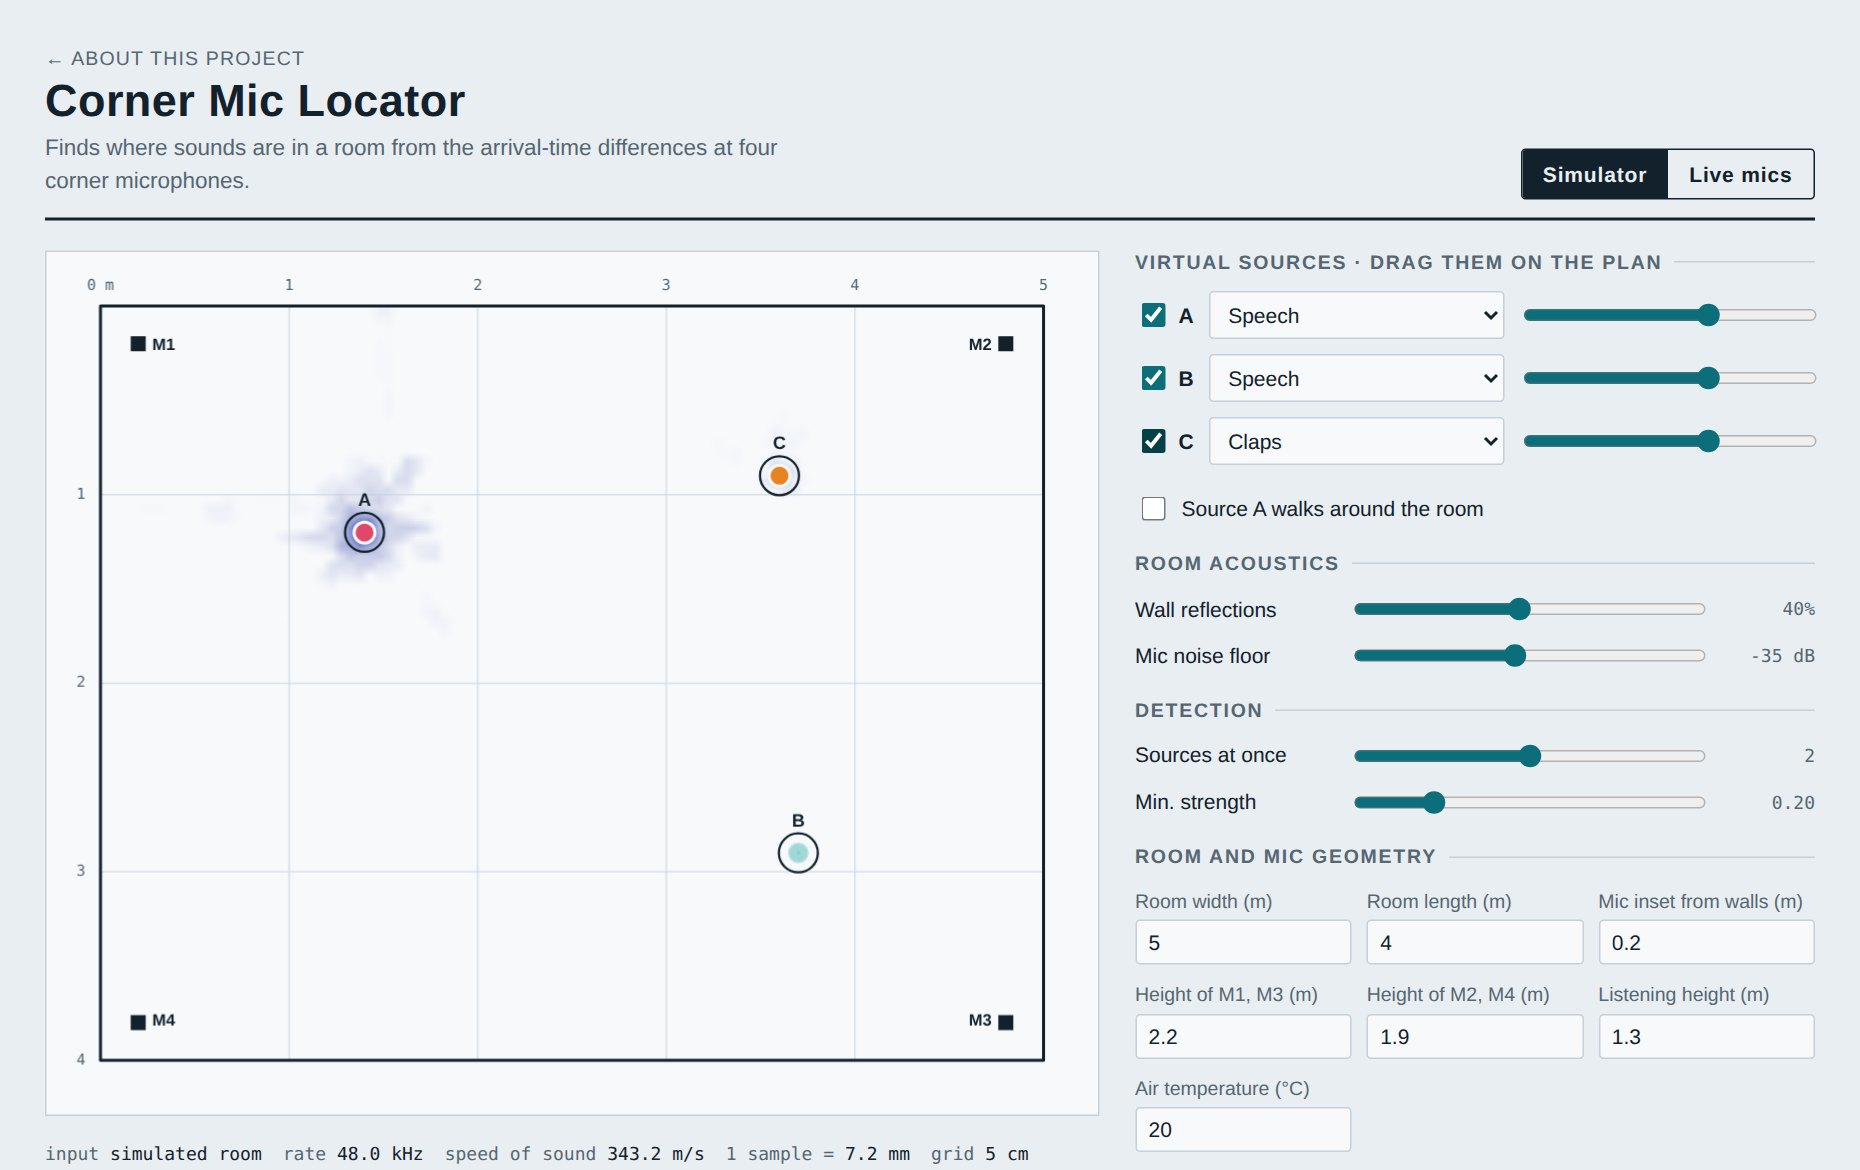
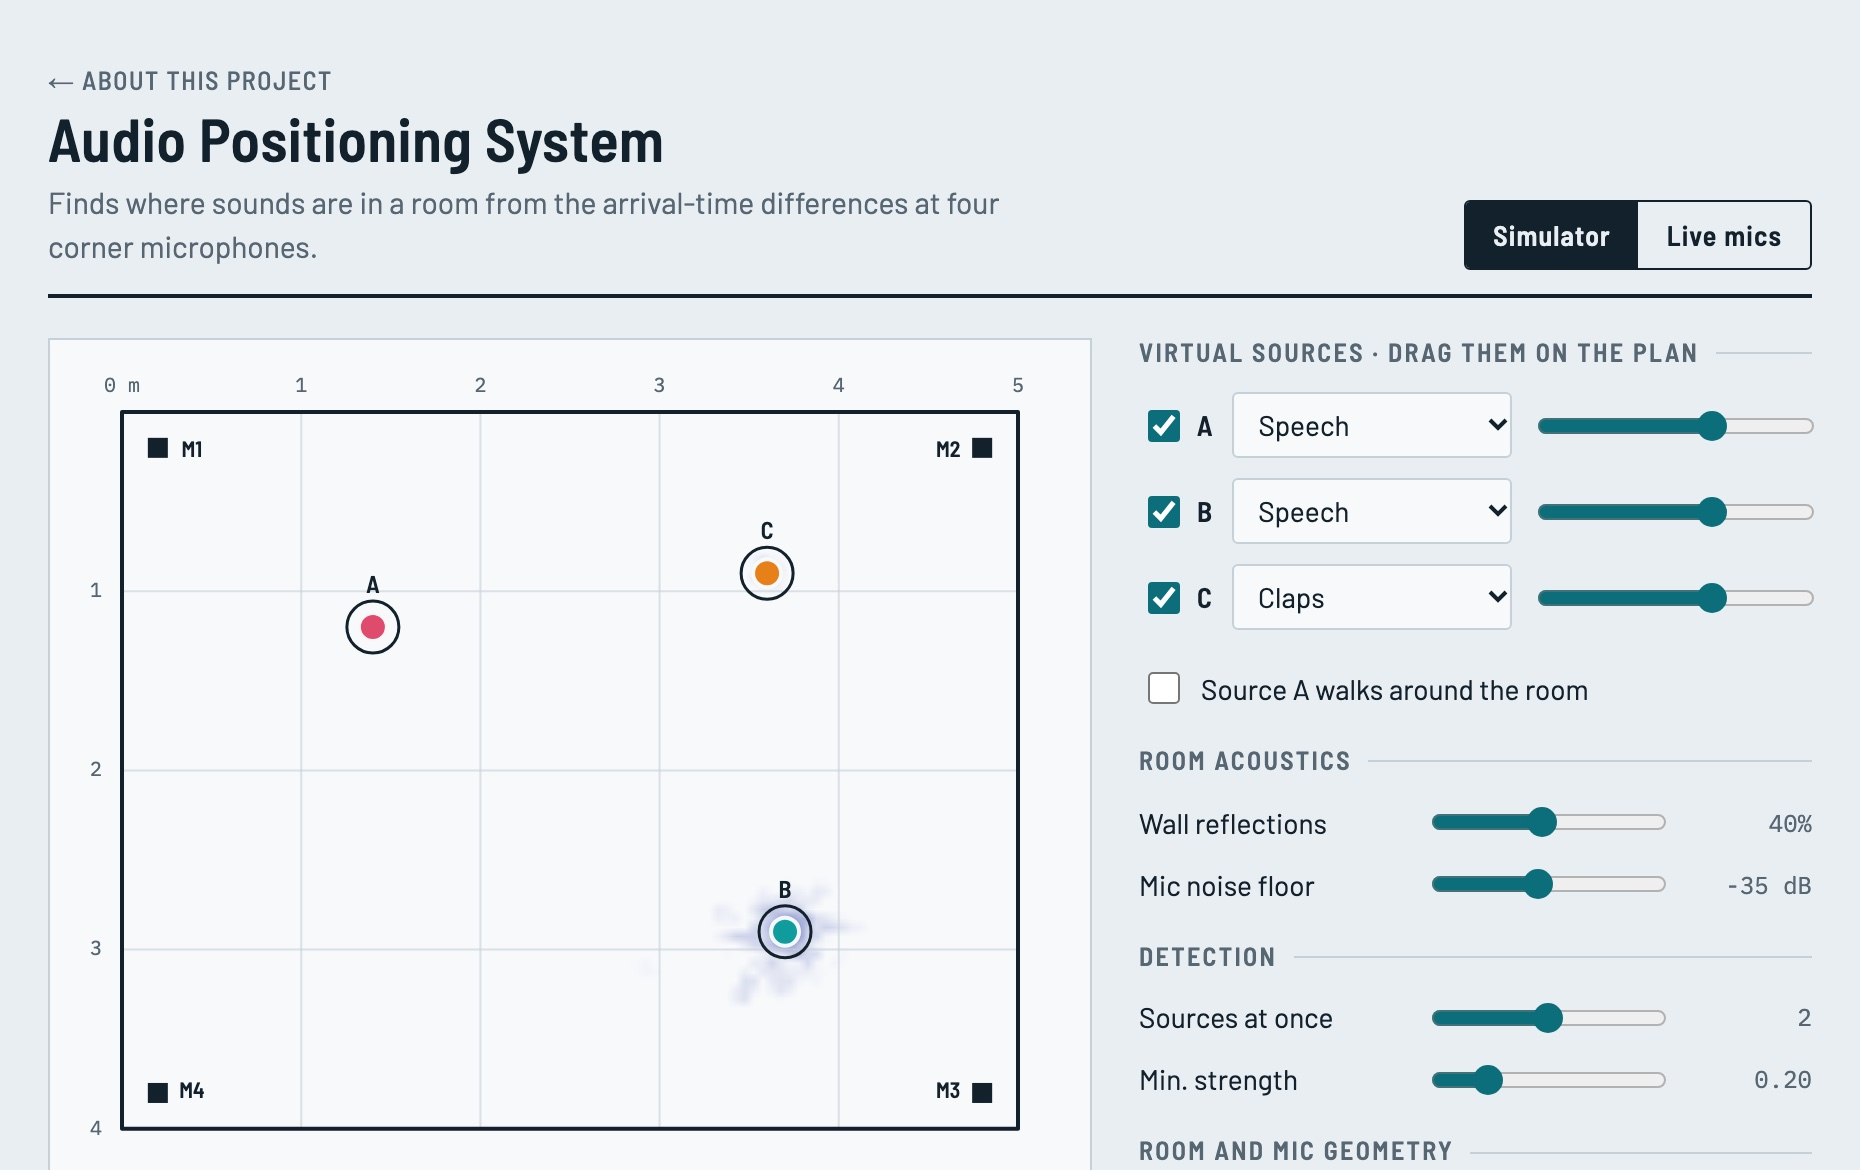
Link CV projects, add live apps, rename the locator to Audio Positioning System

diff --git a/static/projects/locator/index.html b/static/projects/locator/index.html
@@ -3,7 +3,7 @@
 <head>
 <meta charset="utf-8">
 <meta name="viewport" content="width=device-width,initial-scale=1">
-<title>Corner Mic Locator · bristoljon.uk</title>
+<title>Audio Positioning System · bristoljon.uk</title>
 <meta name="description" content="Locates sounds in a room from the arrival-time differences at four corner microphones. Runs a simulated room, or live from a multichannel audio interface.">
 <link rel="icon" href="/favicon.svg" type="image/svg+xml">
 <link rel="stylesheet" href="https://fonts.googleapis.com/css2?family=Barlow:wght@400;500;600&family=Barlow+Semi+Condensed:wght@500;600&family=IBM+Plex+Mono:wght@400;500&display=swap">
@@ -81,7 +81,7 @@ details ul{padding-left:1.1em;margin:8px 0;display:flex;flex-direction:column;ga
   <header>
     <div>
       <a class="back" href="/project/locator/">← About this project</a>
-      <h1>Corner Mic Locator</h1>
+      <h1>Audio Positioning System</h1>
       <p>Finds where sounds are in a room from the arrival-time differences at four corner microphones.</p>
     </div>
     <div class="seg" role="group" aria-label="Input">

diff --git a/src/pages/cv.js b/src/pages/cv.js
@@ -157,7 +157,7 @@ const CvPage = ({ data }) => {
                   {fm.sideProjects.map(p => (
                     <li key={p.name}>
                       <h3>
-                        {p.name}
+                        {p.url ? <a href={p.url}>{p.name}</a> : p.name}
                         {p.status && <span className="cv-status">{p.status}</span>}
                       </h3>
                       <p>{p.description}</p>
@@ -219,6 +219,7 @@ export const query = graphql`
         sideProjects {
           name
           status
+          url
           description
         }
         sideProjectsNote

diff --git a/src/styles/global.css b/src/styles/global.css
@@ -2447,7 +2447,8 @@ a.tag:hover {
   line-height: 1.3;
 }
 
-.cv-job h3 a {
+.cv-job h3 a,
+.cv-projects h3 a {
   text-decoration-color: var(--accent);
   text-decoration-thickness: 2px;
 }
@@ -2757,7 +2758,8 @@ a.tag:hover {
     font-size: 11.5pt;
   }
 
-  .cv-job h3 a {
+  .cv-job h3 a,
+  .cv-projects h3 a {
     text-decoration: none;
   }
 

diff --git a/gatsby-node.js b/gatsby-node.js
@@ -92,6 +92,7 @@ exports.createSchemaCustomization = ({ actions }) => {
     type CvProject {
       name: String
       status: String
+      url: String
       description: String
     }
 

diff --git a/content/pages/cv.md b/content/pages/cv.md
@@ -215,6 +215,28 @@ education:
     school: Bristol Cathedral School
     year: "2003"
 sideProjects:
+  - name: TatNav
+    status: MVP live at tatnav.net
+    url: https://tatnav.net
+    description: >-
+      Zero hassle free stuff. One photo of something left out on the street,
+      an AI (Gemini vision) description to check, and it's a pin on the map for
+      anyone nearby. No login, no typing. PWA on Netlify and Postgres.
+  - name: Sudoku Solver and Grader
+    status: live at sudoku.bristoljon.uk
+    url: https://sudoku.bristoljon.uk/
+    description: >-
+      Rates puzzles by solving them five ways, each simulating a human
+      approach, and measuring the effort. Scan puzzles in with the camera:
+      grid detection and a small neural network read the digits on-device.
+      Installable offline PWA.
+  - name: Dozenal Calculator
+    status: live at bristoljon.uk
+    url: https://bristoljon.uk/projects/dozenal/
+    description: >-
+      Base 12 calculator and converter built with React. Exact fraction
+      arithmetic means nothing is rounded and recurring digits are shown
+      properly. Installable as an app.
   - name: Colour Clock
     status: building prototype
     description: >-
@@ -222,13 +244,15 @@ sideProjects:
       LEDs that provides a few interesting educational use cases as well as
       just looking awesome on the wall.
   - name: Community Average Speed Check
-    status: proof of concept
+    status: MVP
+    url: https://bristoljon.uk/project/speedy/
     description: >-
       Mobile app that uses ANPR, timing and geolocation APIs to create a
       peer-to-peer average speed check network that can be used to improve
       road safety and empower residents.
   - name: Scriptic
     status: MVP was live at scriptic.io
+    url: https://bristoljon.uk/project/scriptic/
     description: >-
       A social platform for creating, playing and hosting SMS based clue
       trails. Built with React on a serverless architecture using FaunaDB,
@@ -240,12 +264,14 @@ sideProjects:
       predict x/y coordinates of a given device on a simple 2D map. 3D not been
       tested yet.
   - name: Audio Positioning System
-    status: back of envelope stage
+    status: proof of concept
+    url: https://bristoljon.uk/project/locator/
     description: >-
       Uses multiple microphones to predict in real time where a sound
       originated in space based on speed of sound and the time each microphone
-      detects a signal. Could provide a budget, room-scale hawkeye system e.g.
-      for table tennis.
+      detects a signal. Working in a simulated room in the browser, locating
+      two or three talkers at once; live microphones next. Could provide a
+      budget, room-scale hawkeye system e.g. for table tennis.
   - name: Colour Trail Toy
     status: back of envelope stage
     description: >-

diff --git a/content/projects/locator.md b/content/projects/locator.md
@@ -1,5 +1,5 @@
 ---
-title: Corner Mic Locator
+title: Audio Positioning System
 date: 2016-09-01
 excerpt: Pinpoints where sounds are in a room from the tiny differences in when
   they reach a microphone in each corner. Runs in the browser, with a simulated
